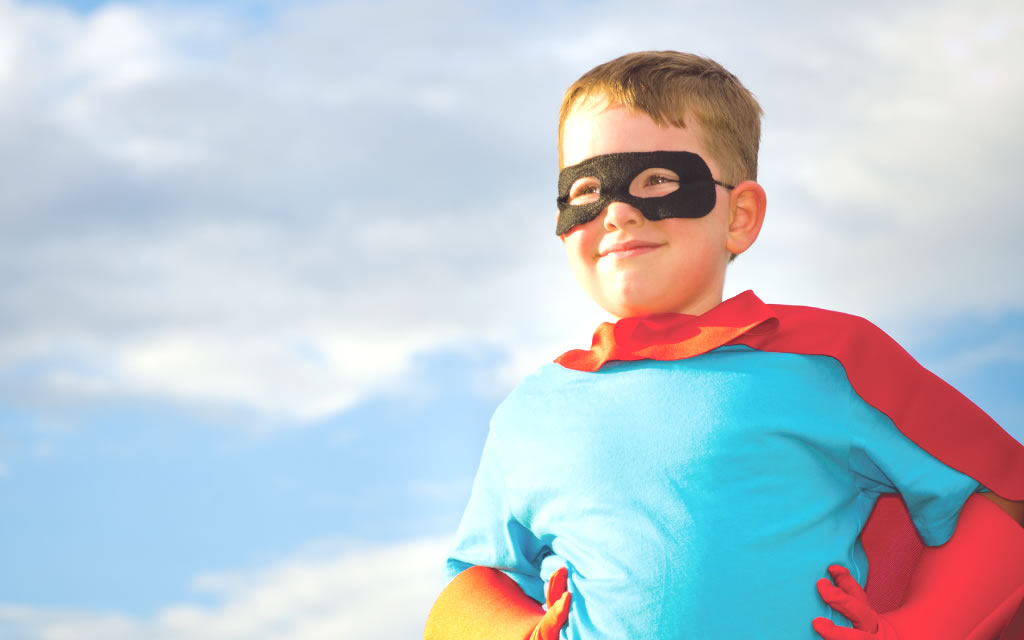
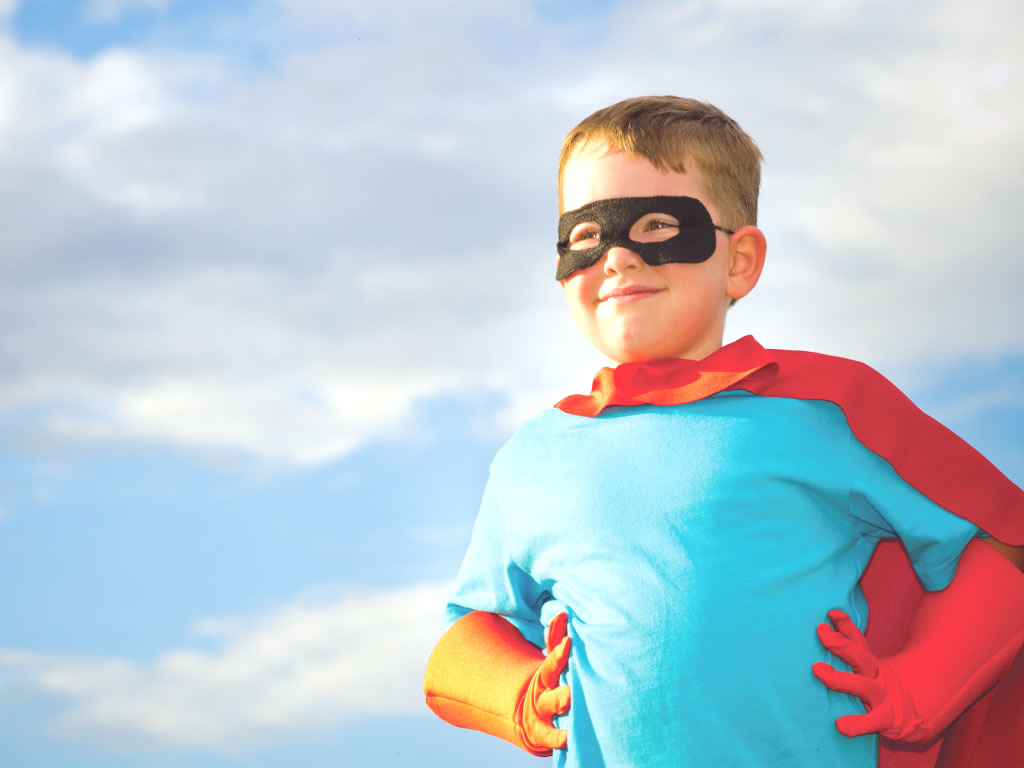
Fixes images looking streched

diff --git a/app/assets/stylesheets/bootstrap_and_overrides.css.scss b/app/assets/stylesheets/bootstrap_and_overrides.css.scss
@@ -324,7 +324,7 @@ header > .background-images {
 header > .background-images > img { 
   position: relative;
   width: 19.95%;
-  height: 100%;
+  vertical-align:top !important;
   min-height:100%;
 }
 
